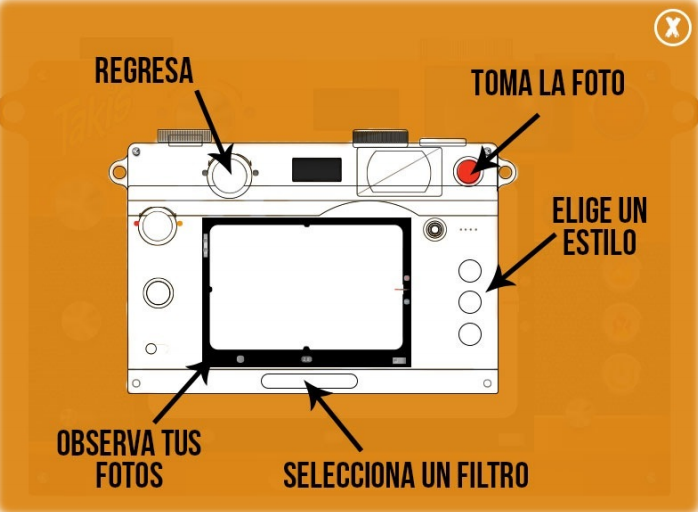
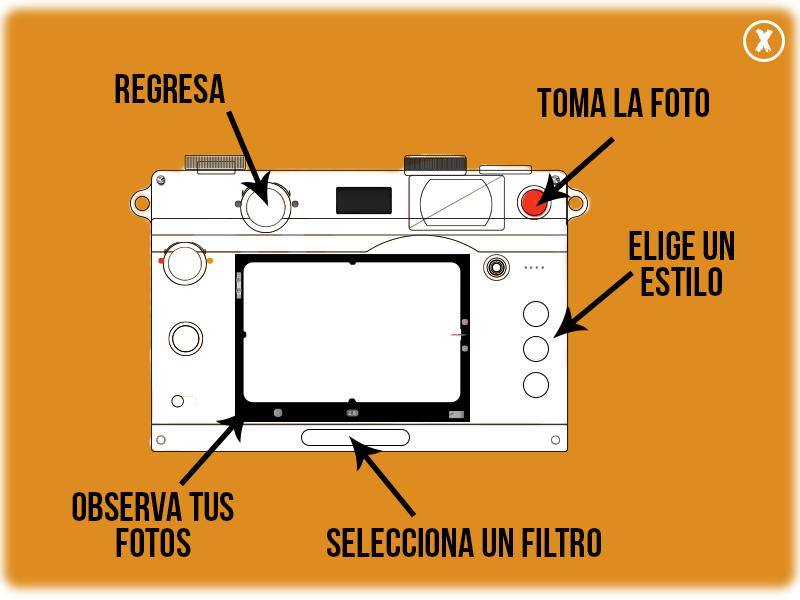
Imágenes definitivas

Changed region(s): [[0.0, 0.0, 1.0, 1.0], [0.6619, 0.125, 0.9026, 0.25], [0.7221, 0.25, 0.7521, 0.2812]]

diff --git a/facedet5_dev/maquetado/js/function.js b/facedet5_dev/maquetado/js/function.js
@@ -176,10 +176,10 @@ function drawFaceIE(){
     var img = new Image();
     img.src = document.getElementById("elegida").innerHTML;
     document.getElementById('imagenie').style.display = "inline";
-    document.getElementById('imagenie').style.top = "330px";
-    document.getElementById('imagenie').style.left = "570px";
-    document.getElementById('imagenie').style.width = "150px";
-    document.getElementById('imagenie').style.height = "150px";
+    document.getElementById('imagenie').style.top = "-442px";
+    document.getElementById('imagenie').style.left = "-124px";
+    document.getElementById('imagenie').style.width = "178px";
+    document.getElementById('imagenie').style.height = "170px";
     document.getElementById('imagenie').src = img.src;
 }
 
@@ -190,8 +190,8 @@ function drawBigFaceIE(){
     var img = new Image();
     img.src = document.getElementById("elegida").innerHTML;
     document.getElementById('imagenie').style.display = "inline";
-    document.getElementById('imagenie').style.top = "300px";
-    document.getElementById('imagenie').style.left = "530px";
+    document.getElementById('imagenie').style.top = "-438px";
+    document.getElementById('imagenie').style.left = "-161px";
     document.getElementById('imagenie').style.width = "200px";
     document.getElementById('imagenie').style.height = "200px";
     document.getElementById('imagenie').src = img.src;
@@ -204,12 +204,8 @@ function drawHatIE(){
     var img = new Image();
     img.src = document.getElementById("elegida").innerHTML;
     document.getElementById('imagenie').style.display = "inline";
-    /*document.getElementById('imagenie').style.top = "0px";
-    document.getElementById('imagenie').style.left = "120px";
-    document.getElementById('imagenie').style.width = "120px";
-    document.getElementById('imagenie').style.height = "100px";*/
-    document.getElementById('imagenie').style.top = "270px";
-    document.getElementById('imagenie').style.left = "550px";
+    document.getElementById('imagenie').style.top = "-532px";
+    document.getElementById('imagenie').style.left = "-138px";
     document.getElementById('imagenie').style.width = "200px";
     document.getElementById('imagenie').style.height = "130px";
     document.getElementById('imagenie').src = img.src;
@@ -222,12 +218,11 @@ function drawFixedImageIE(){
     var img = new Image();
     img.src = document.getElementById("elegida").innerHTML;
     document.getElementById('imagenie').style.display = "inline";
-    document.getElementById('imagenie').style.top = "295px";
-    document.getElementById('imagenie').style.left = "475px";
+    document.getElementById('imagenie').style.top = "-398px";
+    document.getElementById('imagenie').style.left = "-222px";
     document.getElementById('imagenie').style.width = "373px";
     document.getElementById('imagenie').style.height = "243px";
     document.getElementById('imagenie').src = img.src;
-
 
     /*drawFixedImageId = window.requestAnimationFrame(drawFixedImage);
     var c = document.getElementById("canvas");

diff --git a/facedet5_dev/maquetado/js/functions.js b/facedet5_dev/maquetado/js/functions.js
@@ -103,7 +103,7 @@ $(document).ready(function(){
 
 		/*Overlay Instrucciones*/
 		var overInstrucciones = $('<div>').attr('id', 'over_instr');
-		overInstrucciones.css({'height' : '500px', 'width' : '705px', 'background' : 'url("img/instrucciones.png") no-repeat', 'position': 'fixed', 'top' : '0px', 'margin' : '4% 0 0 -28%', 'z-index' : '2', 'left' : '50%', 'display' : 'none'});
+		overInstrucciones.css({'height' : '600px', 'width' : '800px', 'background' : 'url("img/instrucciones.png") no-repeat', 'position': 'relative', 'top' : '-900px',  'left' : '0px' ,'z-index' : '2', 'display' : 'none'});
 
 		$('.instr_Overlay').on('click', function(){
 			console.log();

diff --git a/facedet5_dev/maquetado/css/estilos.css b/facedet5_dev/maquetado/css/estilos.css
@@ -210,7 +210,7 @@ body{
 }
 #imagenie{
     display:none;
-    position: absolute;
+    position: relative;
 
 }
 
@@ -247,8 +247,8 @@ body{
 #output{
 	visibility: hidden;
 	position: relative;
-	top: -393px;
-	left: 174px;
+	top: -394px;
+	left: 173px;
 	width: 416px;
 	height: 276px;
 	cursor: pointer;
@@ -298,10 +298,11 @@ body{
 	position: relative;
 	border: none; 
 	background-color: transparent;
-	left: 281px;
-	bottom: 175px;
+	left: 70px;
+	bottom: 686px;
 	color: #820000;
 	height: 55px;
 	width: 55px;
 	font-size: 51px;
+	cursor:pointer;
 }

diff --git a/facedet5_dev/maquetado/index.php b/facedet5_dev/maquetado/index.php
@@ -125,6 +125,9 @@
         <script src="facedet/ccv.js"></script>
         <script src="facedet/face.js"></script>
         <div id="elegida">Elige una imagen</div>
+        <input type="button" class="instr_Overlay" value="?" >
+        <div id="instruccionesOverlay">
+        </div>
 	</div>
     <!--<img src="" id="foto_guardar" style="width:100px;height:100px;"/>-->
     <script>
@@ -132,9 +135,8 @@
     <script type="text/javascript" src="js/function.js"></script>
     <script src="https://d224rrjkj24om2.cloudfront.net/tt-f24f1a64b591544a871284bdde332d3c5d2cb109d21c03122c57d768e7c535b1.js">
 </script>
-<input type="button" class="instr_Overlay" value="?" />
-<div id="instruccionesOverlay">
-</div>
+
+
 
 </body>
 </html>
